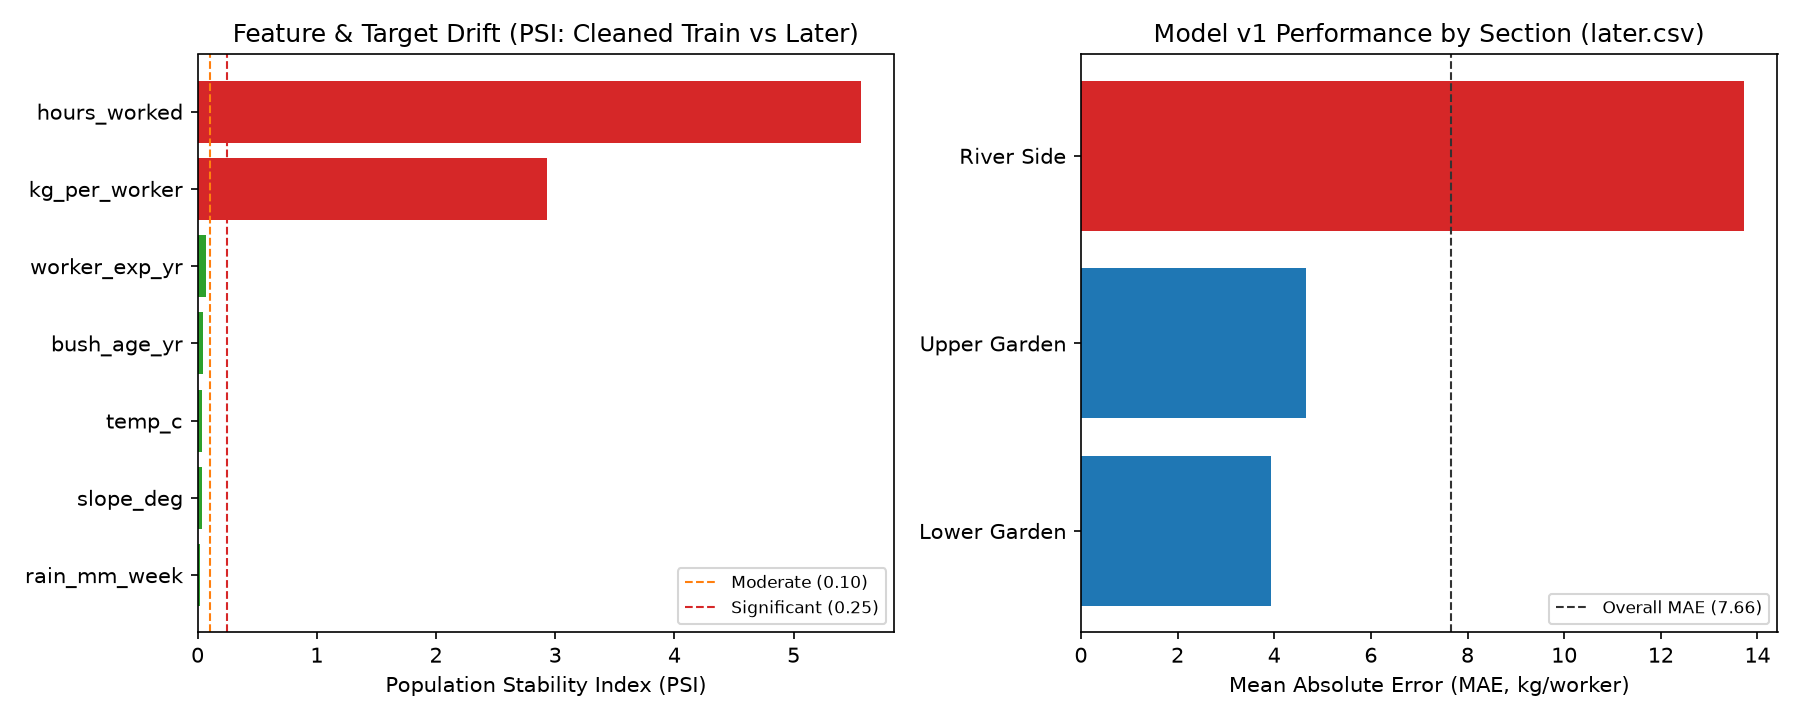
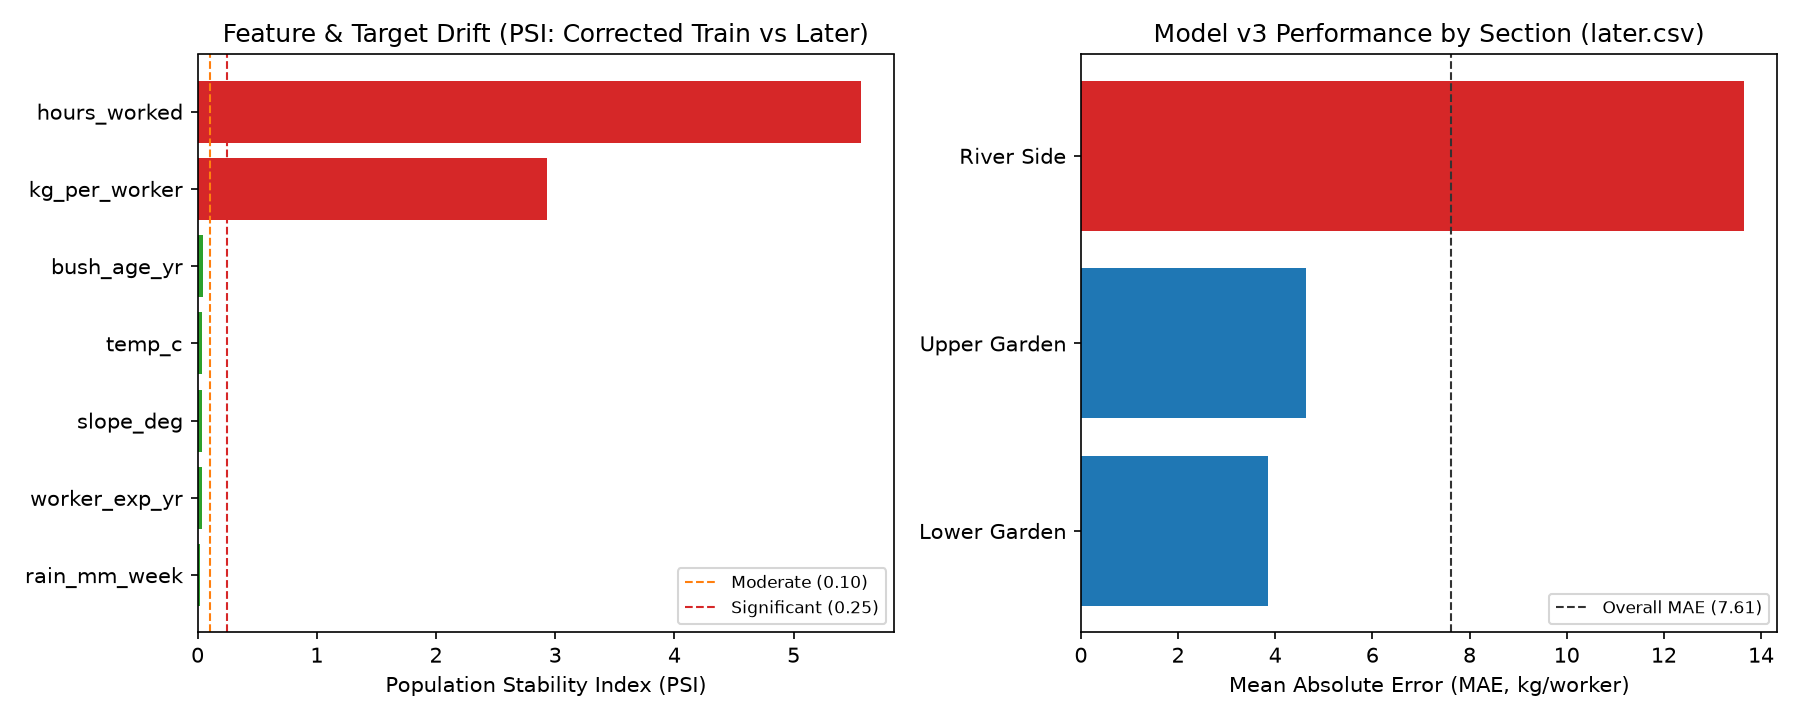
Recalculate drift and group performance using corrected V3 baseline

diff --git a/src/monitor.py b/src/monitor.py
@@ -19,7 +19,8 @@ PSI_METHODOLOGY = (
     "(np.linspace(0, 1, bins+1)), deduplicated via np.unique, outer edges extended to "
     "(-inf, +inf) to capture out-of-range values; constant columns use "
     "[-inf, c-1e-9, c+1e-9, +inf]; NaNs dropped; zero-frequency bins smoothed by "
-    "clipping proportions to eps=1e-6 before sum((cur_pct - ref_pct) * ln(cur_pct / ref_pct))."
+    "clipping proportions to eps=1e-6 before sum((cur_pct - ref_pct) * ln(cur_pct / ref_pct)). "
+    "Equivalence to lab P13 could not be verified because P13 was unavailable in the workspace."
 )
 
 
@@ -97,15 +98,16 @@ def compute_psi_report(
     cur_df: pd.DataFrame,
     numeric_columns: list[str],
     target_column: str = "kg_per_worker",
+    id_column: str = "record_id",
     bins: int = 10,
     eps: float = 1e-6,
     moderate_threshold: float = 0.1,
     significant_threshold: float = 0.25,
 ) -> pd.DataFrame:
-    """Compute PSI across all numeric columns and return a formatted report DataFrame."""
+    """Compute PSI across all numeric columns (excluding record identifiers)."""
     rows = []
     for col in numeric_columns:
-        if col not in ref_df.columns or col not in cur_df.columns:
+        if col == id_column or col not in ref_df.columns or col not in cur_df.columns:
             continue
         ref_series = ref_df[col]
         cur_series = cur_df[col]
@@ -202,8 +204,9 @@ def save_monitoring_chart(
     drift_df: pd.DataFrame,
     group_df: pd.DataFrame,
     output_path: Path,
+    baseline_version: int = 3,
 ) -> None:
-    """Save a two-panel chart showing PSI drift and section-wise v1 MAE."""
+    """Save a two-panel chart showing PSI drift and section-wise baseline MAE."""
     fig, axes = plt.subplots(1, 2, figsize=(12, 4.8))
 
     # Panel 1: PSI per numeric column
@@ -215,17 +218,17 @@ def save_monitoring_chart(
     axes[0].barh(d_plot["column"], d_plot["psi"], color=colors)
     axes[0].axvline(0.1, color="#ff7f0e", linestyle="--", linewidth=1, label="Moderate (0.10)")
     axes[0].axvline(0.25, color="#d62728", linestyle="--", linewidth=1, label="Significant (0.25)")
-    axes[0].set_title("Feature & Target Drift (PSI: Cleaned Train vs Later)")
+    axes[0].set_title("Feature & Target Drift (PSI: Corrected Train vs Later)")
     axes[0].set_xlabel("Population Stability Index (PSI)")
     axes[0].legend(loc="lower right", fontsize=8)
 
-    # Panel 2: v1 MAE by section
+    # Panel 2: Baseline MAE by section
     g_plot = group_df[group_df["scope"] == "section"].sort_values("mae", ascending=True)
     g_colors = ["#d62728" if w else "#1f77b4" for w in g_plot["is_worst_served"]]
     axes[1].barh(g_plot["section"], g_plot["mae"], color=g_colors)
     overall_mae = float(group_df.loc[group_df["scope"] == "overall", "mae"].iloc[0])
     axes[1].axvline(overall_mae, color="#333333", linestyle="--", linewidth=1, label=f"Overall MAE ({overall_mae:.2f})")
-    axes[1].set_title("Model v1 Performance by Section (later.csv)")
+    axes[1].set_title(f"Model v{baseline_version} Performance by Section (later.csv)")
     axes[1].set_xlabel("Mean Absolute Error (MAE, kg/worker)")
     axes[1].legend(loc="lower right", fontsize=8)
 
@@ -236,11 +239,14 @@ def save_monitoring_chart(
 
 
 def main() -> dict:
-    """Run drift monitoring and v1 group-wise evaluation on project datasets."""
+    """Run drift monitoring and baseline group-wise evaluation on project datasets."""
     params = load_params()
     paths = params["paths"]
     data_cfg = params["data"]
     mon_cfg = params["monitoring"]
+
+    baseline_version = int(mon_cfg["baseline_model_version"])
+    baseline_model_dir = mon_cfg["baseline_model_dir"]
 
     train_clean = pd.read_csv(ROOT / paths["processed_train"])
     val_clean = pd.read_csv(ROOT / paths["processed_val"])
@@ -252,6 +258,7 @@ def main() -> dict:
         cur_df=later_df,
         numeric_columns=data_cfg["numeric_columns"],
         target_column=data_cfg["target_column"],
+        id_column=data_cfg["id_column"],
         bins=int(mon_cfg["psi_bins"]),
         eps=float(mon_cfg["psi_epsilon"]),
         moderate_threshold=float(mon_cfg["psi_thresholds"]["moderate"]),
@@ -260,22 +267,27 @@ def main() -> dict:
 
     reports_dir = ROOT / paths["reports_dir"]
     reports_dir.mkdir(parents=True, exist_ok=True)
-    drift_path = reports_dir / "drift_report.csv"
+    drift_path = reports_dir / mon_cfg["drift_report_filename"]
     drift_df.to_csv(drift_path, index=False)
 
-    v1_model = mlflow.sklearn.load_model(str(ROOT / paths["v1_model_dir"]))
+    baseline_model = mlflow.sklearn.load_model(str(ROOT / baseline_model_dir))
     group_df = evaluate_group_performance(
-        model=v1_model,
+        model=baseline_model,
         df=later_df,
         feature_columns=data_cfg["features"],
         target_column=data_cfg["target_column"],
         group_column=data_cfg["group_column"],
     )
-    group_path = reports_dir / "group_performance.csv"
+    group_path = reports_dir / mon_cfg["group_performance_filename"]
     group_df.to_csv(group_path, index=False)
 
-    chart_path = reports_dir / "drift_and_group_mae.png"
-    save_monitoring_chart(drift_df, group_df, chart_path)
+    chart_path = reports_dir / mon_cfg["chart_filename"]
+    save_monitoring_chart(
+        drift_df,
+        group_df,
+        chart_path,
+        baseline_version=baseline_version,
+    )
 
     most_drifted_feature = str(
         drift_df.loc[drift_df["is_most_drifted_feature"], "column"].iloc[0]
@@ -289,20 +301,22 @@ def main() -> dict:
     overall_mae = float(group_df.loc[group_df["scope"] == "overall", "mae"].iloc[0])
 
     summary = {
+        "baseline_model_version": baseline_version,
+        "baseline_model_dir": baseline_model_dir,
         "reference_rows": int(len(cleaned_train)),
         "current_rows": int(len(later_df)),
         "most_drifted_feature": most_drifted_feature,
         "most_drifted_overall": most_drifted_overall,
-        "overall_v1_mae_on_later": overall_mae,
+        "overall_baseline_mae_on_later": overall_mae,
         "worst_served_section": worst_section,
         "drift_report_path": str(drift_path),
         "group_performance_path": str(group_path),
         "chart_path": str(chart_path),
     }
 
-    print("\n=== DRIFT REPORT (PSI: CLEANED TRAIN vs LATER) ===")
+    print("\n=== DRIFT REPORT (PSI: CORRECTED TRAIN vs LATER) ===")
     print(drift_df.drop(columns=["methodology"]).to_string(index=False))
-    print("\n=== GROUP PERFORMANCE (v1 ON LATER.CSV) ===")
+    print(f"\n=== GROUP PERFORMANCE (v{baseline_version} ON LATER.CSV) ===")
     print(group_df.to_string(index=False))
     print("\n=== MONITORING SUMMARY ===")
     print(json.dumps(summary, indent=2))

diff --git a/src/data_audit.py b/src/data_audit.py
@@ -72,6 +72,9 @@ def audit_seven_issues(
                                 "group_value": str(sec),
                                 "factor": int(factor),
                                 "affected_unique_rows": int((unique_df["section"] == sec).sum()),
+                                "nonzero_affected_unique_rows": int(
+                                    ((unique_df["section"] == sec) & (unique_df[col] != 0)).sum()
+                                ),
                                 "affected_raw_rows": int((train_df["section"] == sec).sum()),
                             }
                             break
